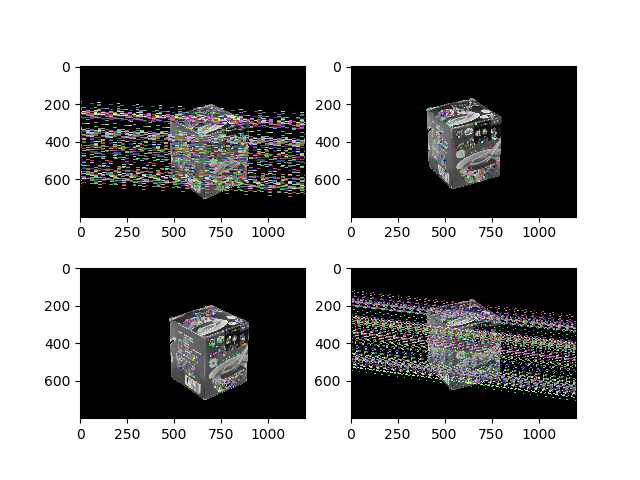
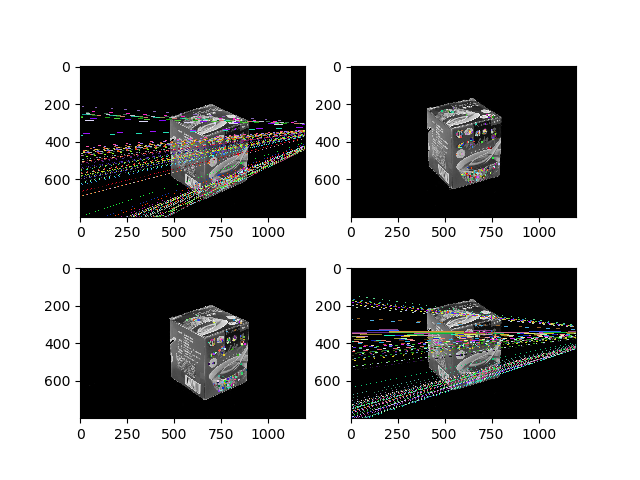
update HW4 to step 7 (3Dpoint unstable)

diff --git a/HW4/main.py b/HW4/main.py
@@ -3,16 +3,22 @@ import numpy as np
 import cv2
 from feature import feature_point_matching
 from fundamental import get_fundamental_matrix
-from util import draw_epilines
-from triangulation import compute_P_from_essential,threeD_from_camera_matrix
+from util import draw_epilines,plot
+from triangulation import compute_P_from_essential,threeD_from_camera_matrix,choose_best_threeD
+import matlab.engine
+import matlab
+
 
 img1_path=os.path.join('dataset','Mesona1.JPG')
 img2_path=os.path.join('dataset','Mesona2.JPG')
-ratio=0.7
-threshold=0.1
-K=np.asarray([[1421.9, 0.5, 509.2],
+ratio=0.5
+threshold=0.05
+K1=K2=np.asarray([[1421.9, 0.5, 509.2],
               [0,   1421.9, 380.2],
               [0,        0,     1]])
+
+def ndarray2matlab(x):
+    return matlab.double(x.tolist())
 
 if __name__=='__main__':
 
@@ -35,12 +41,18 @@ if __name__=='__main__':
     draw_epilines(img1, img2, inlier1, inlier2, F, 'epilines.png')
 
     # 4. four possible P2
-    E = K.T @ F @ K
-    P1 = np.hstack((np.eye(3),np.zeros((3,1))))
-    P2s=compute_P_from_essential(E)
+    E = K1.T @ F @ K2
+    P1 = np.hstack((np.eye(3),np.zeros((3,1)))) # first camera matrix
+    P2s= compute_P_from_essential(E)  # second camera matrix
 
     # 5. four possible 3D points from P1 & P2
-    threeDs=threeD_from_camera_matrix(K,P1,P2s,inlier1,inlier2)
+    threeDs=threeD_from_camera_matrix(K1,K2,P1,P2s,inlier1,inlier2)
 
     # 6. find the most appropriate
+    threeD=choose_best_threeD(threeDs,P2s)
+    plot(threeD)
 
+    # 7. call matlab
+    eng = matlab.engine.start_matlab()
+    eng.obj_main(ndarray2matlab(threeD), ndarray2matlab(threeD), ndarray2matlab(K1@P1), img1_path, matlab.int32([1]), nargout=0)
+    eng.quit()

diff --git a/HW4/triangulation.py b/HW4/triangulation.py
@@ -21,9 +21,10 @@ def compute_P_from_essential(E):
 
     return P2s
 
-def threeD_from_camera_matrix(K,P1,P2s,inlier1,inlier2):
+def threeD_from_camera_matrix(K1,K2,P1,P2s,inlier1,inlier2):
     """
-    :param K: Intrinsic matrix
+    :param K1: Intrinsic matrix form camera1
+    :param K2: Intrinsic matrix from camera2
     :param P1: Extrinsic matrix from camera1
     :param P2s: Extrinsic matrixs from camera2
     :param inlier1: (N,2) ndarray
@@ -34,8 +35,8 @@ def threeD_from_camera_matrix(K,P1,P2s,inlier1,inlier2):
     threeDs=[]
     for i in range(4):
         P2=P2s[i]
-        CM1=K@P1
-        CM2=K@P2
+        CM1=K1@P1
+        CM2=K2@P2
 
         threeD_points=[]
         for i in range(N):
@@ -50,3 +51,21 @@ def threeD_from_camera_matrix(K,P1,P2s,inlier1,inlier2):
         threeDs.append(np.asarray(threeD_points))
 
     return threeDs
+
+def choose_best_threeD(threeDs,P2s):
+    best_front_num=0
+    best_idx=-1
+    for i in range(4):
+        P2=P2s[i]
+        R=P2[:,:-1]
+        t=P2[:,-1:]
+        threeD=threeDs[i].T
+        camera_center=-R.T@t
+        front_num = np.sum((R[-1:, :]@(threeD - camera_center)) > 0)
+        if front_num>best_front_num:
+            best_front_num=front_num
+            best_idx=i
+        print(f'# front num: {front_num}/{threeD.shape[1]}')
+
+    return threeDs[best_idx]
+

diff --git a/HW4/util.py b/HW4/util.py
@@ -1,7 +1,7 @@
 import numpy as np
 import cv2
 import matplotlib.pyplot as plt
-
+from mpl_toolkits.mplot3d import Axes3D
 
 def norm_line(lines):
     a = lines[0,:]
@@ -44,3 +44,14 @@ def draw_epilines(gray1, gray2, inlier1, inlier2, F, filename):
     plt.subplot(223), plt.imshow(img4)
     plt.subplot(224), plt.imshow(img3)
     plt.savefig(filename)
+
+def plot(final3d):
+    fig = plt.figure()
+    ax = Axes3D(fig)
+    for i in range(len(final3d)):
+        ax.scatter(final3d[i,0], final3d[i,1], final3d[i,2])
+    ax.set_xlabel('x axis')
+    ax.set_ylabel('y axis')
+    ax.set_zlabel('z axis')
+    ax.view_init(elev = 135, azim = 90)
+    plt.show()
